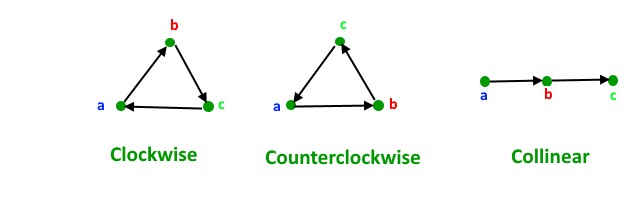
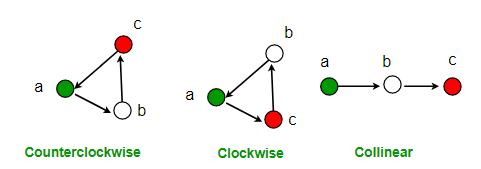
commit

diff --git a/post/algorithm/2d_convex_hull/index.html b/post/algorithm/2d_convex_hull/index.html
@@ -84,7 +84,7 @@
 
 <meta itemprop="datePublished" content="2018-11-20T11:00:00&#43;08:00" />
 <meta itemprop="dateModified" content="2018-11-20T11:00:00&#43;08:00" />
-<meta itemprop="wordCount" content="119">
+<meta itemprop="wordCount" content="267">
 
 
 
@@ -294,7 +294,7 @@
               <a href="/categories/%E7%AE%97%E6%B3%95/"> 算法 </a>
             
           </div>
-        <span class="more-meta"> 约 119 字 </span>
+        <span class="more-meta"> 约 267 字 </span>
         <span class="more-meta"> 预计阅读 1 分钟 </span>
       </div>
     </header>
@@ -311,6 +311,7 @@
 <li>
 <ul>
 <li><a href="#凸包问题">凸包问题</a></li>
+<li><a href="#有序点的方向">有序点的方向</a></li>
 </ul></li>
 </ul></li>
 </ul>
@@ -322,12 +323,32 @@
     <div class="post-content">
       
 
+<script type="text/javascript" src="http://cdn.mathjax.org/mathjax/latest/MathJax.js?config=default"></script>
+
 <h3 id="凸包问题">凸包问题</h3>
 
 <p>&emsp;&emsp;凸包（Convex Hull）是一个计算几何（图形学）中的概念。点集Q的凸包是指一个最小凸多边形，满足Q中的点或者在多边形边上或者在其内。
 <div align=center><img src="/image/post/algorithm/2d_convex_hull/00.jpg" alt="" /></div></p>
 
 <p>&emsp;&emsp;正式讨论凸包问题之前，这里先引入一些辅助概念。</p>
+
+<h3 id="有序点的方向">有序点的方向</h3>
+
+<p>&emsp;&emsp;一个平面内有序点的方向（Orientation）可以有三种：</p>
+
+<ul>
+<li>逆时针 CounterClockwise</li>
+<li>顺时针 Clockwise</li>
+<li>共线 Colinear
+<div align=center><img src="/image/post/algorithm/2d_convex_hull/01.png" alt="" /></div></li>
+</ul>
+
+<p>&emsp;&emsp;对于点a($x_1, y_1$)、b($x_2, y_2$)、c($x_3, y_3$)，线段ab的斜率为
+$$ \sigma = \frac{y_2 - y_1}{x_2 - x_1} $$
+线段bc的斜率为
+$$ \sigma = \frac{y_3 - y_2}{x_3 - x_2} $$</p>
+
+<p>若</p>
 
     </div>
 

diff --git a/index.html b/index.html
@@ -287,7 +287,7 @@
             <a href="/categories/%E7%AE%97%E6%B3%95/"> 算法 </a>
           
         </div>
-      <span class="more-meta"> 约 119 字 </span>
+      <span class="more-meta"> 约 267 字 </span>
       <span class="more-meta"> 预计阅读 1 分钟 </span>
     </div>
   </header>
